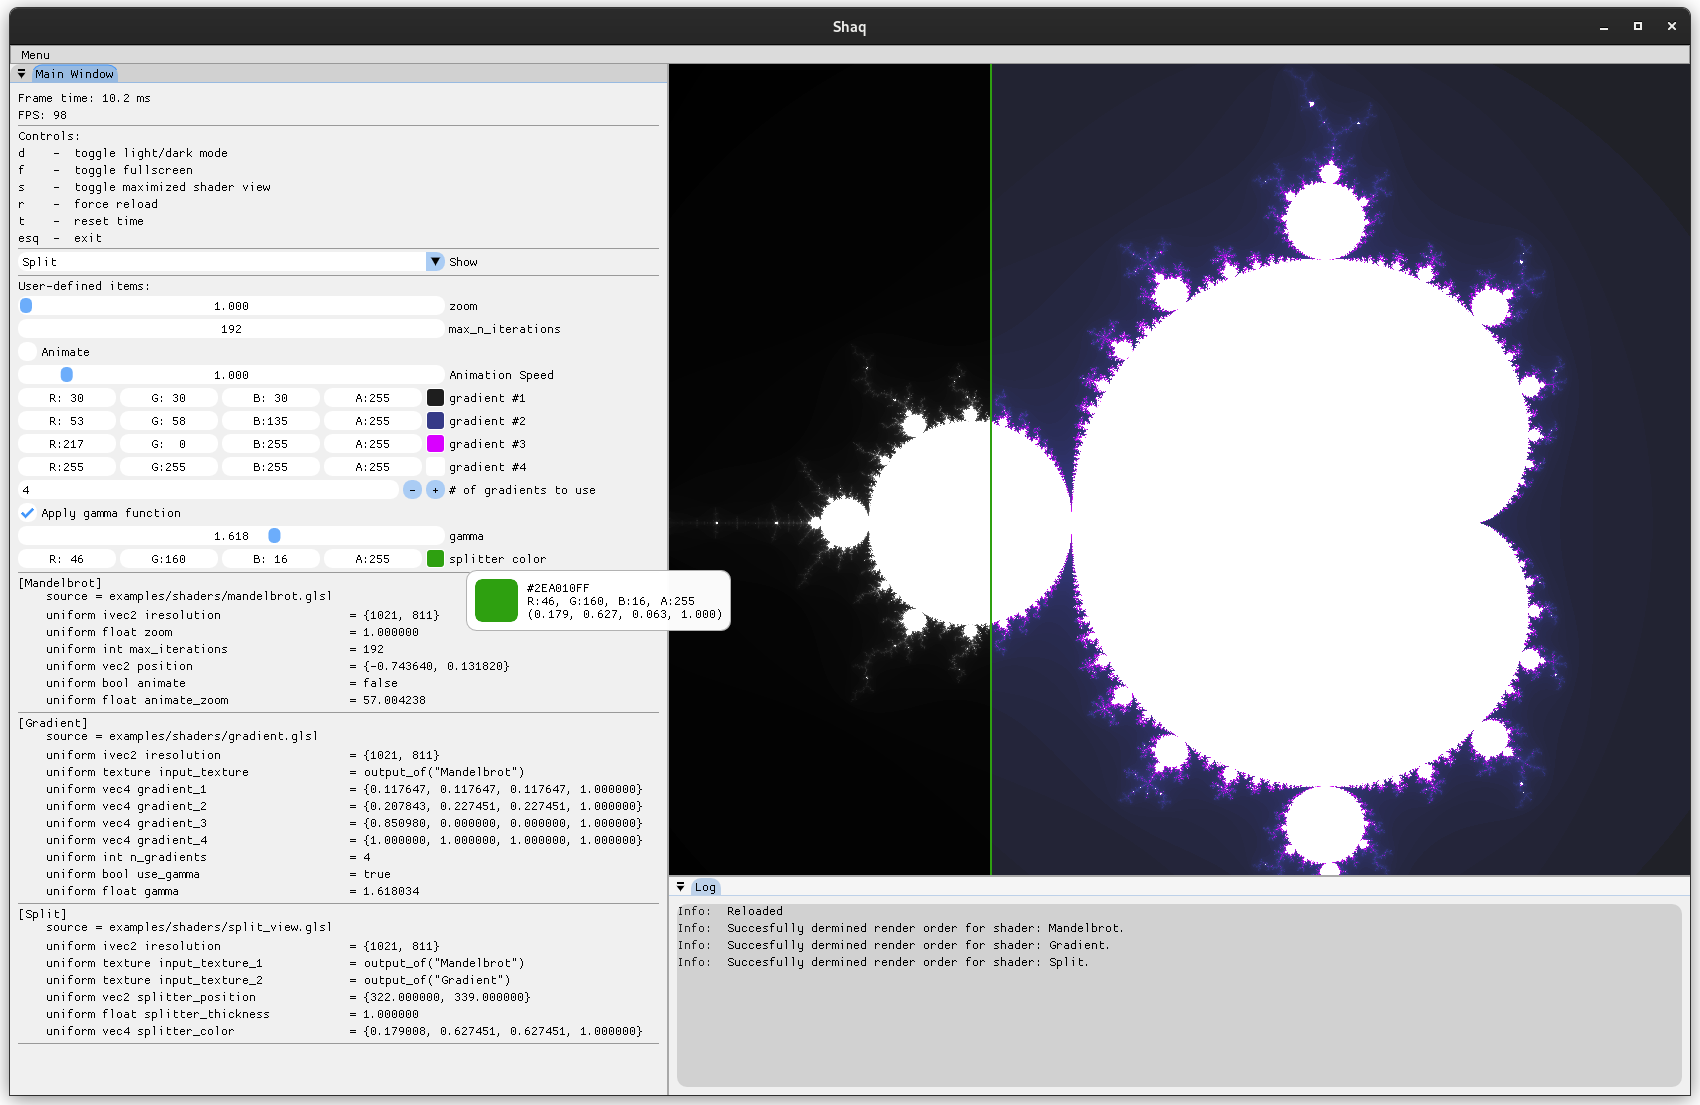
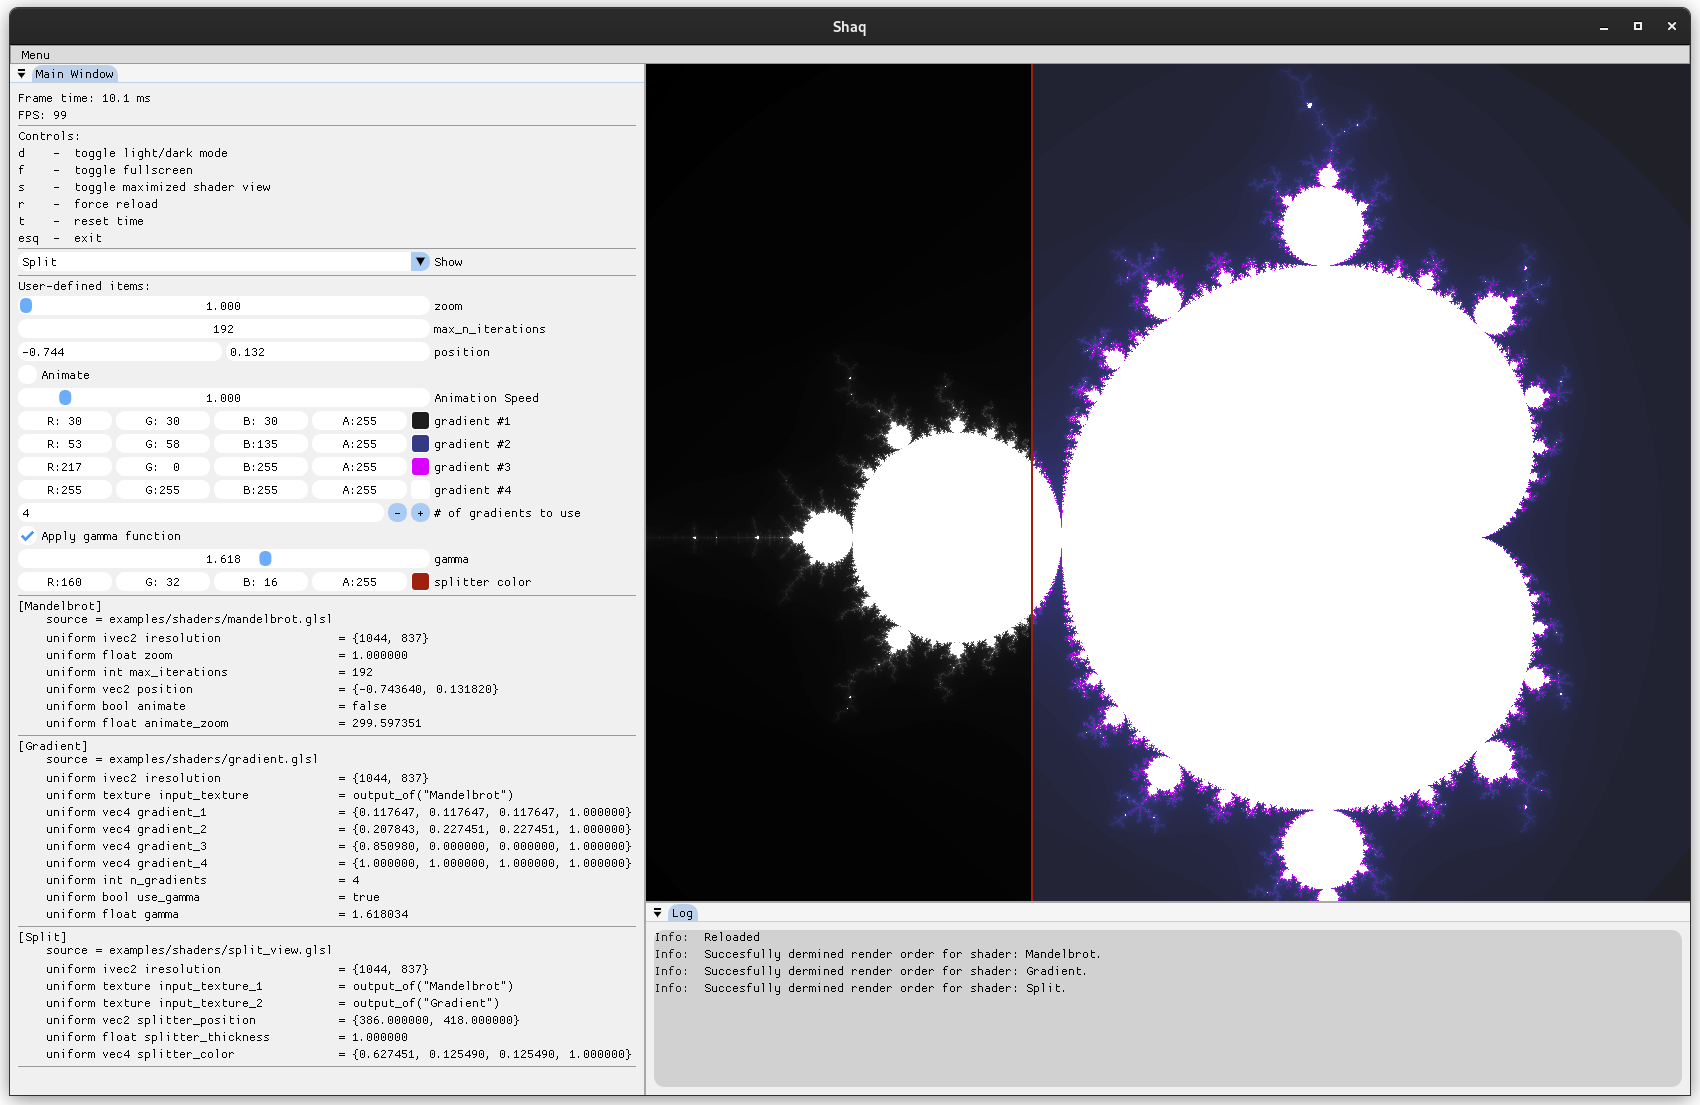
Implement file dialog

diff --git a/src/shaq_core.c b/src/shaq_core.c
@@ -46,13 +46,15 @@ static void shaq_atexit_(void);
 static struct {
 
     HglIni *ini; 
-    const char *ini_filepath;
+    char ini_filepath[SHAQ_FILEPATH_MAX_LEN];
+    b8 has_ini_filepath;
     i64 ini_modifytime;
     Array(Shader, SHAQ_MAX_N_SHADERS) shaders;
     Array(u32, SHAQ_MAX_N_SHADERS) render_order;
     Array(Texture, SHAQ_MAX_N_LOADED_TEXTURES) loaded_textures;
     i32 visible_shader_idx;
     b8 quiet;
+    b8 should_reload;
 
     u64 start_timestamp_ns;
     u64 last_frame_timestamp_ns;
@@ -69,9 +71,13 @@ void shaq_begin(const char *ini_filepath, bool quiet)
     alloc_init();
     renderer_init();
 
+    if (ini_filepath != NULL) {
+        strncpy(shaq.ini_filepath, ini_filepath, SHAQ_FILEPATH_MAX_LEN - 1);
+        shaq.has_ini_filepath = true;
+    }
+
     shaq.start_timestamp_ns = util_get_time_nanos();
     shaq.last_frame_timestamp_ns = shaq.start_timestamp_ns;
-    shaq.ini_filepath = ini_filepath;
     shaq.visible_shader_idx = (u32) -1;
     shaq.quiet = quiet;
 
@@ -143,7 +149,10 @@ void shaq_new_frame()
         gui_draw_menu_bar();
 
         /* Draw file dialog (maybe) */
-        gui_draw_file_dialog();
+        if (gui_draw_file_dialog(shaq.ini_filepath)) {
+            shaq.has_ini_filepath = true;
+            shaq.should_reload = true;
+        }
 
         gui_end_frame();
     }
@@ -276,6 +285,15 @@ u32 shaq_get_loaded_texture_by_index(u32 index)
 
 static b8 session_reload_needed()
 {
+    if (shaq.should_reload) {
+        return true;
+    }
+
+    /* Return early if no filepath is set */
+    if (!shaq.has_ini_filepath) {
+        return false;
+    }
+
     i64 ts = io_get_file_modify_time(shaq.ini_filepath, true);
     if (ts == -1) {
         return false; // File is probably in the process of being saved. Hold off for a bit.
@@ -302,6 +320,8 @@ static b8 session_reload_needed()
 
 static void reload_session()
 {
+    shaq.should_reload = false;
+
     /* Manually free OpenGL resources */
     for (u32 i = 0; i < shaq.shaders.count; i++) {
         Shader *s = &shaq.shaders.arr[i];
@@ -328,7 +348,7 @@ static void reload_session()
     hgl_free_all(g_session_fs_allocator);
 
     /* Return early if no filepath is set */
-    if (shaq.ini_filepath == NULL) {
+    if (!shaq.has_ini_filepath) {
         return;
     }
 

diff --git a/src/imguic.cpp b/src/imguic.cpp
@@ -4,6 +4,7 @@
 
 extern "C" {
     #include "alloc.h"
+    #include "constants.h"
 }
 
 #include "imgui/imgui.h"
@@ -133,18 +134,18 @@ void imgui_open_file_dialog()
     ImGuiFileDialog::Instance()->OpenDialog("ShaqFileDialog", "Choose File", ".ini,.shaq", config);
 }
 
-void imgui_display_file_dialog()
+b8 imgui_display_file_dialog(char *filepath)
 {
+    b8 updated_filepath = false;
     if (ImGuiFileDialog::Instance()->Display("ShaqFileDialog")) {
         if (ImGuiFileDialog::Instance()->IsOk()) {
-            //std::string filePathName = ImGuiFileDialog::Instance()->GetFilePathName();
-            //std::string filePath = ImGuiFileDialog::Instance()->GetCurrentPath();
-            printf("Select\n");
-            // TODO
+            std::string selected_filepath = ImGuiFileDialog::Instance()->GetFilePathName();
+            strncpy(filepath, selected_filepath.c_str(), SHAQ_FILEPATH_MAX_LEN - 1);
+            updated_filepath = true;
         }
-
         ImGuiFileDialog::Instance()->Close();
     }
+    return updated_filepath;
 }
 
 void imgui_draw_texture(u32 gl_texture_id, int w, int h)

diff --git a/src/gui.h b/src/gui.h
@@ -41,7 +41,7 @@ void gui_end_main_window(void);
 void gui_end_frame(void);
 void gui_draw_log_window(void);
 void gui_draw_menu_bar(void);
-void gui_draw_file_dialog(void);
+b8 gui_draw_file_dialog(char *ini_filepath);
 void gui_toggle_darkmode(void);
 SelValue gui_get_dynamic_item_value(StringView label,
                                     DynamicGuiItemKind kind,

diff --git a/src/main.c b/src/main.c
@@ -29,12 +29,14 @@ int main(int argc, char *argv[])
         return 0;
     }
    
+#if 0
     if (*opt_input == NULL) {
         fprintf(stderr, "No input file (*.ini) provided.\n");
         printf("Usage: %s [Options]\n", argv[0]);
         hgl_flags_print();
         return 1;
     }
+#endif
 
     srand(*opt_rng_seed == 0 ? (u64)time(NULL): *opt_rng_seed);
 

diff --git a/src/imguic.h b/src/imguic.h
@@ -43,7 +43,7 @@ b8 imgui_menu_item(const char *label, const char *shortcut);
 void imgui_end_menu(void);
 void imgui_end_main_menu_bar(void);
 void imgui_open_file_dialog(void);
-void imgui_display_file_dialog(void);
+b8 imgui_display_file_dialog(char *filepath);
 
 void imgui_draw_texture(u32 gl_texture_id, int w, int h);
 void imgui_table_next_row(void);

diff --git a/src/gui.c b/src/gui.c
@@ -227,9 +227,9 @@ void gui_draw_menu_bar()
     imgui_end_main_menu_bar();
 }
 
-void gui_draw_file_dialog()
+b8 gui_draw_file_dialog(char *ini_filepath)
 {
-    imgui_display_file_dialog();
+    return imgui_display_file_dialog(ini_filepath);
 }
 
 void gui_toggle_darkmode()

diff --git a/src/constants.h b/src/constants.h
@@ -6,6 +6,7 @@
 #define SHAQ_MAX_N_DYNAMIC_GUI_ITEMS  64
 #define SHAQ_MAX_N_LOADED_TEXTURES    16
 #define SHAQ_ENABLE_VSYNC              1
+#define SHAQ_FILEPATH_MAX_LEN        512
 
 #endif /* CONSTANTS_H */
 

diff --git a/README.md b/README.md
@@ -79,7 +79,7 @@ source                            = examples/shaders/mandelbrot.glsl
 uniform ivec2 iresolution         = iresolution()
 uniform float zoom                = slider_float_log("zoom", 1.0, 1000000.0, 1.0)
 uniform int max_iterations        = drag_int("max_n_iterations", 1, 1000, 192)
-uniform vec2 position             = vec2(-0.74364, 0.13182)
+uniform vec2 position             = input_vec2("position", vec2(-0.74364, 0.13182))
 uniform bool animate              = checkbox("Animate", FALSE)
 uniform float animate_zoom        = min(pow(0.01*slider_float("Animation Speed", 0.01, 10.0, 1.0)*time() + 1.0, 10.0), 1000000.0)
 
@@ -138,6 +138,7 @@ spell compositor, ok?
 * SEL - Add missing documentation in `--list-builtins`.
 * SEL - load\_video()?
 * Degrade OpenGL version on systems with versions < 4.5
+* Fix naughty unaligned data storage in `selvm.c` (Run with -fsantize=undefined)
 
 # Credits
 This project uses open source components. See a list of credits below.
